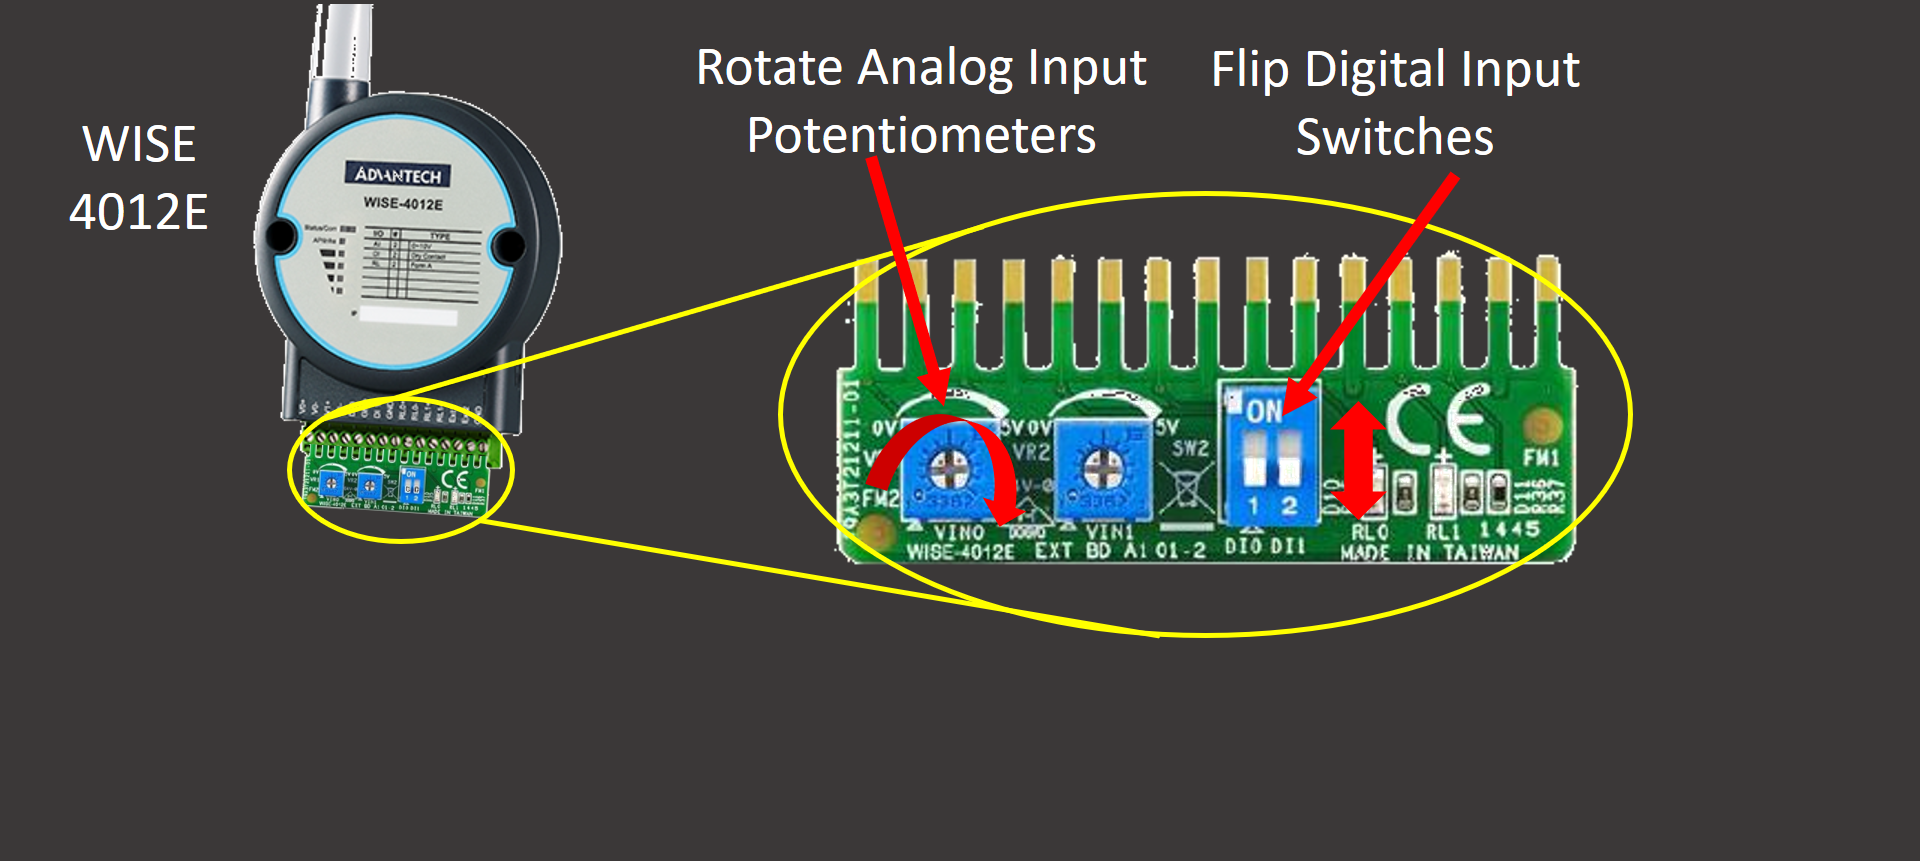
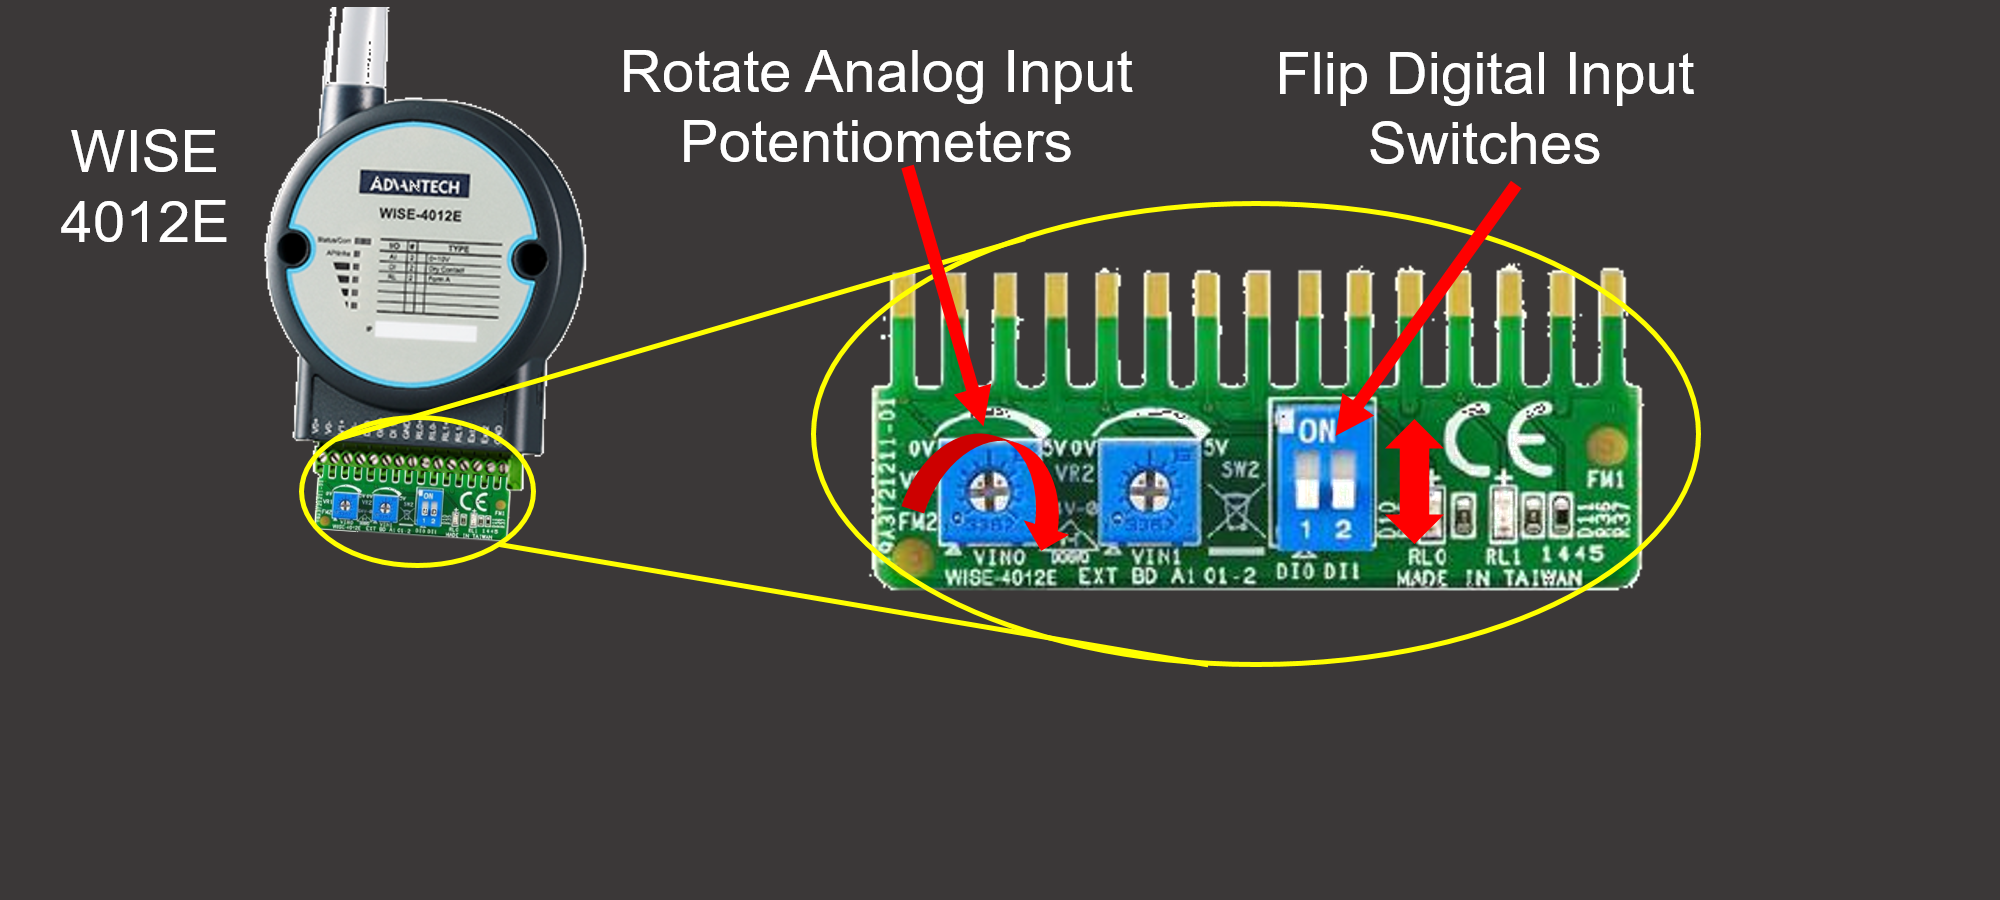
Added better error handling and updated intro images

diff --git a/IOT Demo/IOT Demo/App/Services/dataService.js b/IOT Demo/IOT Demo/App/Services/dataService.js
@@ -50,11 +50,11 @@ angular.module('iotdemoApp')
 
     // Actually writes data for a certain group of attributes
     function sendCurrentReadings(attributes) {
+		// Assume each sensor is supported, but if one isn't, log that!
+		var incompatibleSensors = "";
+		
         // Define global variable to hold all of the new values
         var dataObj = [];
-
-        // Read the current battery level, then
-        //$window.navigator.getBattery().then(function (battery) {
 
         // For each of the attributes in the array of attributes that was passed in
         attributes.forEach(function (attribute) {
@@ -62,68 +62,75 @@ angular.module('iotdemoApp')
             // Based on that attributes name, read the correct sensor on the data source device
             var value;
             switch (attribute.Name) {
-                case "Bearing oil health": { // Actually the battery level!
-                    value = batteryLevel;
-                    if (value == null) {
-                        value = 95;
-                    }
-                    break;
-                }
                 case "X-axis acceleration": {
                     value = currentxAccelerationReading;
+					// If this sensor value isn't defined, generate a simulated value, and log this incompatibility
                     if (value == null) {
                         value = Math.random() * 10;
+						incompatibleSensors += ", x-acceleration";
                     }
                     break;
                 }
                 case "Y-axis acceleration": {
                     value = currentyAccelerationReading;
+					// If this sensor value isn't defined, generate a simulated value, and log this incompatibility
                     if (value == null) {
                         value = Math.random() * 10;
+						incompatibleSensors += ", y-acceleration";
                     }
                     break;
                 }
                 case "Z-axis acceleration": {
                     value = currentzAccelerationReading;
+					// If this sensor value isn't defined, generate a simulated value, and log this incompatibility
                     if (value == null) {
                         value = Math.random() * 10;
+						incompatibleSensors += ", z-acceleration";
                     }
                     break;
                 }
                 case "Alpha-axis rotation": {
                     value = currentAlphaOrientationReading;
+					// If this sensor value isn't defined, generate a simulated value, and log this incompatibility
                     if (value == null) {
                         value = Math.random() * 90;
+						incompatibleSensors += ", alpha-orientation";
                     }
                     break;
                 }
                 case "Beta-axis rotation": {
                     value = currentBetaOrientationReading;
+					// If this sensor value isn't defined, generate a simulated value, and log this incompatibility
                     if (value == null) {
                         value = Math.random() * 90;
+						incompatibleSensors += ", beta-orientation";
                     }
                     break;
                 }
                 case "Gamma-axis rotation": {
                     value = currentGammaOrientationReading;
+					// If this sensor value isn't defined, generate a simulated value, and log this incompatibility
                     if (value == null) {
                         value = Math.random() * 90;
+						incompatibleSensors += ", gamma-orientation";
                     }
                     break;
                 }
                 case "Ambient light level": {
                     value = ambientLightLevel;
-                    // If there is no light sensor, generate a random reading
+                    // If this sensor value isn't defined, generate a simulated value, and log this incompatibility
                     if (!window.DeviceLightEvent || value == null) {
-                        value = Math.random() * 300;
+                        value = Math.random() * 100;
+						incompatibleSensors += ", light";
                     }
                     break;
                 }
                 case "Proximity sensor reading": {
                     value = proximityValue;
-                    // If there is no proximity sensor, generate a random reading
+                    // If this sensor value isn't defined, generate a simulated value, and log this incompatibility
                     if (!window.DeviceProximityEvent || value == null) {
                         value = Math.random() * 50;
+						incompatibleSensors += ", proximity";
                     }
                     break;
                 }
@@ -133,8 +140,7 @@ angular.module('iotdemoApp')
                 }
             }
 			// Last-ditch error handler
-			if (value == null)
-			{
+			if (value == null) {
 				value = 0;
 			}
             // Add this new data value as an object to the array of value objects that will be written (at the current time)
@@ -144,38 +150,18 @@ angular.module('iotdemoApp')
         var url = _httpsPIWebAPIUrl + "/streamsets/value";
         // Send these new values to be written to the PI System
         $http.post(url, JSON.stringify(dataObj), {'Content-Type': 'application/json'});
-        //});
+
+		// Check if an incompatibility was detected; if so, trigger the alert!
+		if (incompatibleSensors !== "") {
+			displayCompatibilityAlert(incompatibleSensors);
+		}
     };
 
     // ---------------------------------------------------------------------------------------------
     // ---------------------------------------------------------------------------------------------
     // Event-handing functions for reading local sensors
 
-    // Define a function to get the battery level
-    /*
-    function getBattery() {
-        return navigator.getBattery().then(function (battery) {
-            return 100 * battery.level;
-        });
-    }
-    */
     if (SEND_DATA_TO_PI_SYSTEM) {
-        // Set up a handler to track the battery
-		/*
-		// Battery is no longer available after recent changes to Firefox!
-        try {
-            navigator.getBattery().then(function (battery) {
-                batteryLevel = 100 * battery.level;
-                battery.addEventListener('levelchange', function () {
-                    batteryLevel = 100 * this.level;
-                    updateSensorValuesDiv();
-                });
-                console.log("Event listener added for this type of sensor data: " + "battery");
-            });
-        } catch(err) {
-            displayCompatibilityAlert("battery");
-        }
-		*/
 
         // Set up a handler to track motion
         if (window.DeviceMotionEvent) {
@@ -193,9 +179,9 @@ angular.module('iotdemoApp')
                 currentzAccelerationReading = event.accelerationIncludingGravity.z;
                 updateSensorValuesDiv();
             }, false);
-            console.log("Event listener added for this type of sensor data: " + "acceleration");
+            logCompatibility("acceleration", false);
         } else {
-            displayCompatibilityAlert("acceleration");
+            logCompatibility("acceleration", false);
         }
 
         // Set up a handler to track orientation
@@ -207,9 +193,9 @@ angular.module('iotdemoApp')
                 currentGammaOrientationReading = event.gamma;
                 updateSensorValuesDiv();
             }, false);
-            console.log("Event listener added for this type of sensor data: " + "orientation");
+            logCompatibility("orientation", true);
         } else {
-            displayCompatibilityAlert("orientation");
+            logCompatibility("orientation", false);
         }
 
         // Also set up handlers for tracking proximity 
@@ -219,45 +205,43 @@ angular.module('iotdemoApp')
                 proximityValue = event.value;
                 updateSensorValuesDiv();
             });
-            console.log("Event listener added for this type of sensor data: " + "proximity");
+            logCompatibility("proximity", true);
         } else {
-            displayCompatibilityAlert("proximity");
+            logCompatibility("proximity", false);
         }
 
-        // Check if the light sensor is supported!
+        // Also set up handlers for tracking light
         if (window.DeviceLightEvent) {
             window.addEventListener('devicelight', function (event) {
                 // If a light change event is detected, save the new value
                 ambientLightLevel = event.value;
                 updateSensorValuesDiv();
             });
-            console.log("Event listener added for this type of sensor data: " + "light");
+            logCompatibility("light", true);
         } else {
-            displayCompatibilityAlert("light");
+            logCompatibility("light", false);
         }
     } else {
 		console.log("Data streaming disabled!");
 	}
 
-    // Helper function that toggles the compatibility alert if a sensor isn't supported
-    function displayCompatibilityAlert(sensorType) {
-        console.log("Notification: this browser and/or device is unable to generate data for the following sensor type: " + sensorType + "; simulated data will be generated for this sensor.");
+    // Helper function that logs the compatibility for each sensor
+    function logCompatibility(sensorType, supported) {
+		if (supported == true) {
+			console.log("Event listener added for this type of sensor data: " + sensorType);
+		} else {
+			console.log("Notification: this browser and/or device is unable to generate data for the following sensor type: " + sensorType + "; simulated data will be generated for this sensor.");
+		}
+	}
+	
+	// Helper function that toggles the compatibility alert if a sensor isn't supported
+	function displayCompatibilityAlert(incompatibleSensors) {
         // Fire a notification if it hasn't been done yet
         if (!modalTriggeredAlready && SEND_DATA_TO_PI_SYSTEM) {
             modalTriggeredAlready = true;
 			var outputHTML = "Your device and/or browser does not support reading the following sensor types:<br/>";
-			var incompatibleSensors = "";
-			if (!currentxAccelerationReading) incompatibleSensors += ", x-acceleration";
-			if (!currentyAccelerationReading) incompatibleSensors += ", y-acceleration";
-			if (!currentzAccelerationReading) incompatibleSensors += ", z-acceleration";
-			if (!currentAlphaOrientationReading) incompatibleSensors += ", alpha-orientation";
-			if (!currentBetaOrientationReading) incompatibleSensors += ", beta-orientation";
-			if (!currentGammaOrientationReading) incompatibleSensors += ", gamma-orientation";
-			if (!proximityValue) incompatibleSensors += ", proximity";
-			if (!ambientLightLevel) incompatibleSensors += ", light";
 			// Trim the first comma
-			incompatibleSensors = incompatibleSensors.substr(2);
-			outputHTML += incompatibleSensors;
+			outputHTML += (incompatibleSensors.substr(2));
 			outputHTML += "<br/>Simulated sensor values will be generated for these sensors to mimic a compatible device.";
 			document.getElementById("compatibilityCheckModalBodyText").innerHTML = outputHTML;
             $("#compatibilityCheckModal").modal();

diff --git a/IOT Demo/IOT Demo/index.html b/IOT Demo/IOT Demo/index.html
@@ -48,12 +48,11 @@
                     <button type="button" class="close" data-dismiss="modal">&times;</button>
                 </div>
                 <div class="modal-body">
-					<div id="compatibilityCheckModalBodyText">
-						Your device and/or browser does not fully support gathering device-level proximity sensor, light sensor, accelerometer, and/or gyro data (to perform a sensor health check, click <b><a href="" onclick="$('#sensorValuesModal').modal()">here</a></b>).  Simulated sensor values will be generated where needed to mimic a compatible device.
-					</div>
+					<div id="compatibilityCheckModalBodyText"></div>
+					<div>To perform a sensor health check, click <b><a href="" onclick="$('#sensorValuesModal').modal()">here</a></b>.</div>
 					<br/>
 					<div>
-						<p><b>NOTE:</b> this app was designed to be viewed in the Firefox web browser.  To download and install the Firefox web browser, click <b><a href="https://www.mozilla.org/en-US/firefox/new/?scene=2">here</a></b>. After installing Firefox on your mobile device, re-launch this web application within the Firefox web browser.</p>
+						<p><b>NOTE:</b> this app was designed to be viewed in the Firefox web browser.  To download and install the Firefox web browser, click <b><a href="https://www.mozilla.org/en-US/firefox/new/?scene=2">here</a></b>, then re-launch this app within the Firefox web browser.</p>
 						<p><b>Other data sources that are connected to the IoT gateway (such as WISE and Phidgets units) will still continue to work as expected.</b></p>
 					</div>	
 				</div>			
@@ -105,7 +104,7 @@
                     <button type="button" class="close" data-dismiss="modal">&times;</button>
                 </div>
                 <div class="modal-body">
-                    This app was designed to run in full-screen mode.  Click <b><a href="" onclick="turnOnFullScreen()">here</a></b> to turn on full-screen mode.
+                    This app was designed to run in full-screen mode.  Click <b><a href="" onclick="turnOnFullScreen()">here</a></b> to turn on full-screen mode (for Windows and Android users only).
                 </div>
                 <div class="modal-footer">
                     <button type="button" class="btn btn-default" data-dismiss="modal">Close</button>
